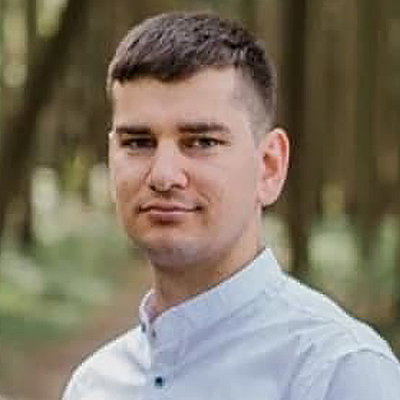
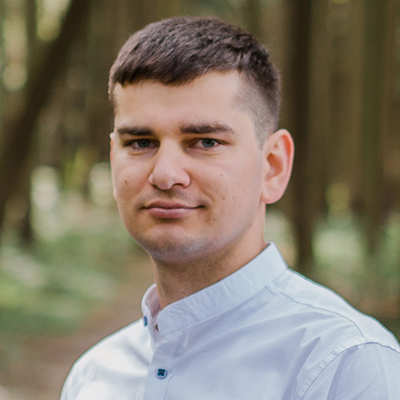
Заменяет фото Федора

diff --git a/index.html b/index.html
@@ -201,7 +201,7 @@
 
 
         <!-- Materials -->
-        <!-- <section class="materials container">
+        <section class="materials container">
             <h2 class="materialsTitle">Useful literature</h2>
             <hr class="materialsLine" />
             <ol class="materialsList literature">
@@ -231,7 +231,7 @@
                     <p class="text link">goit.ua<a href="https://goit.ua/"></a></p>
                 </li>
             </ol>
-        </section> -->
+        </section>
 
         <!-- Contacts -->
         <!-- <section class="team container">
